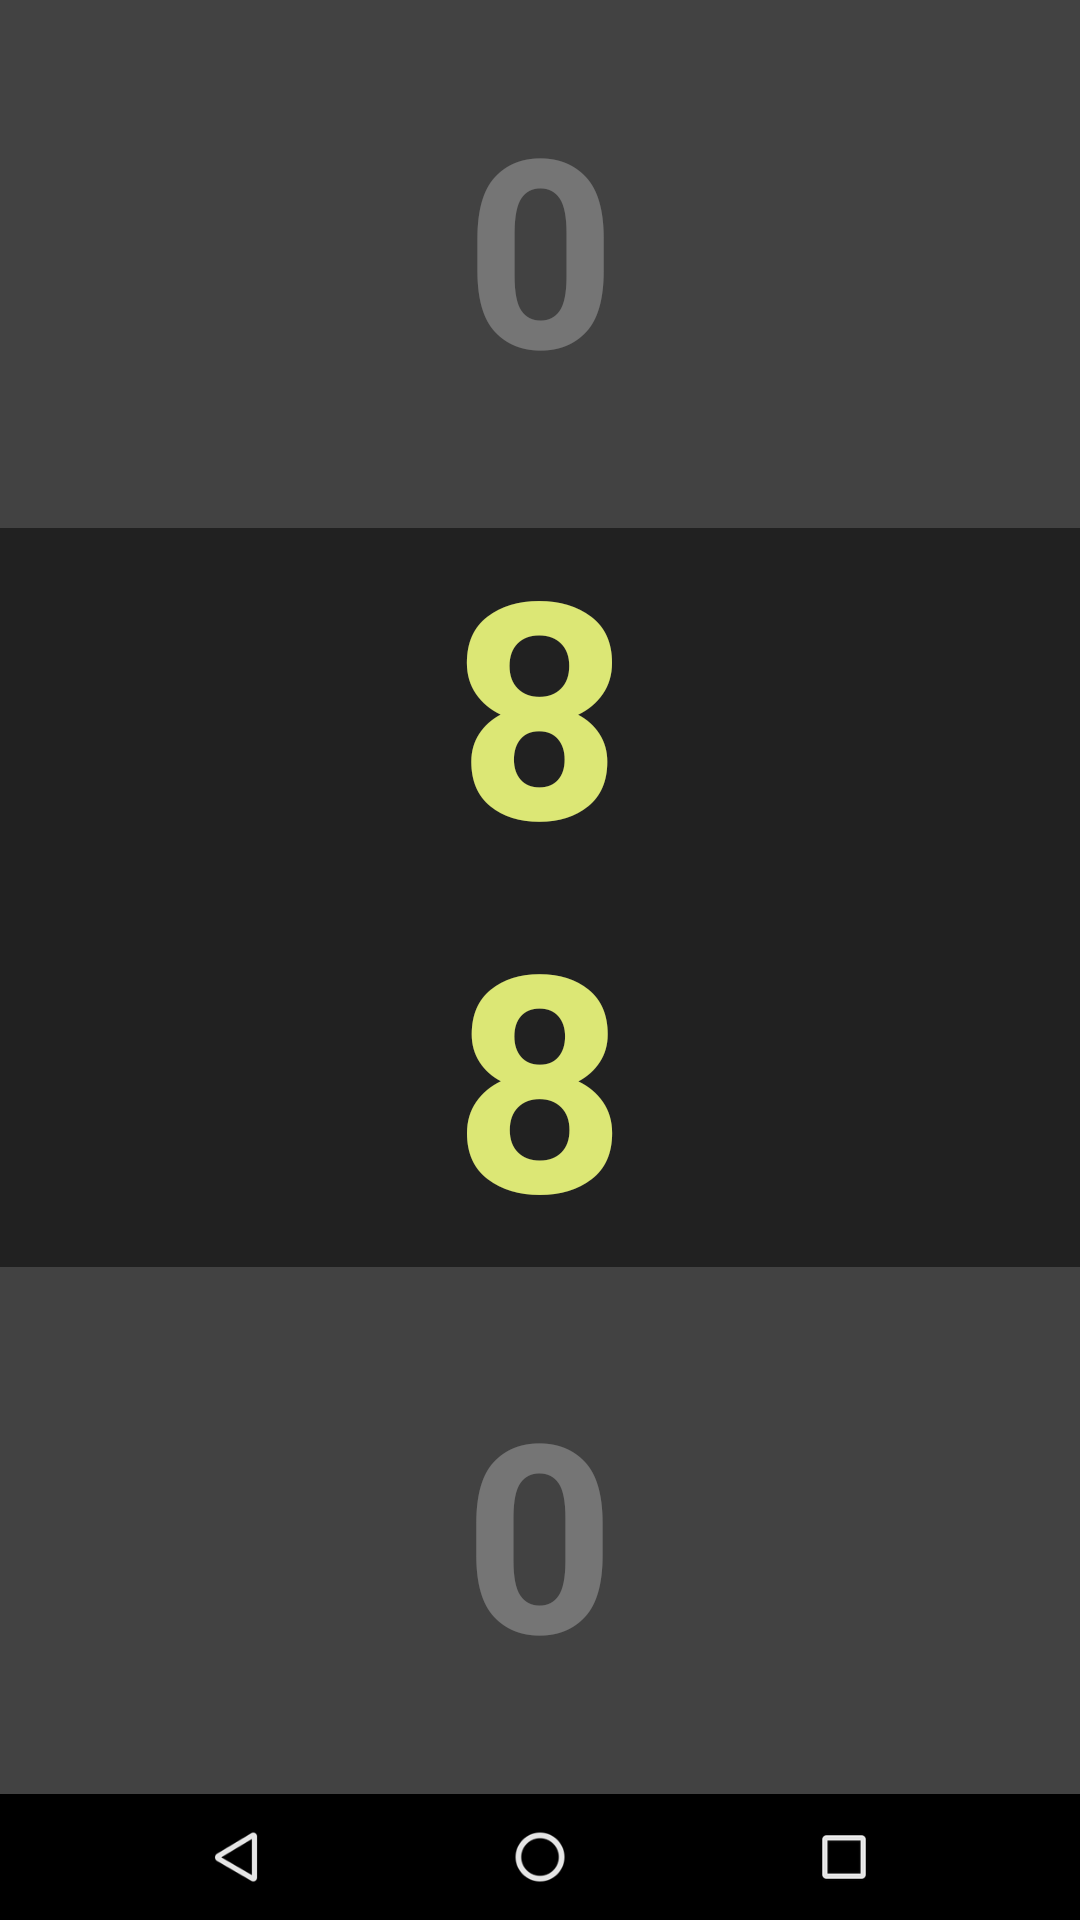
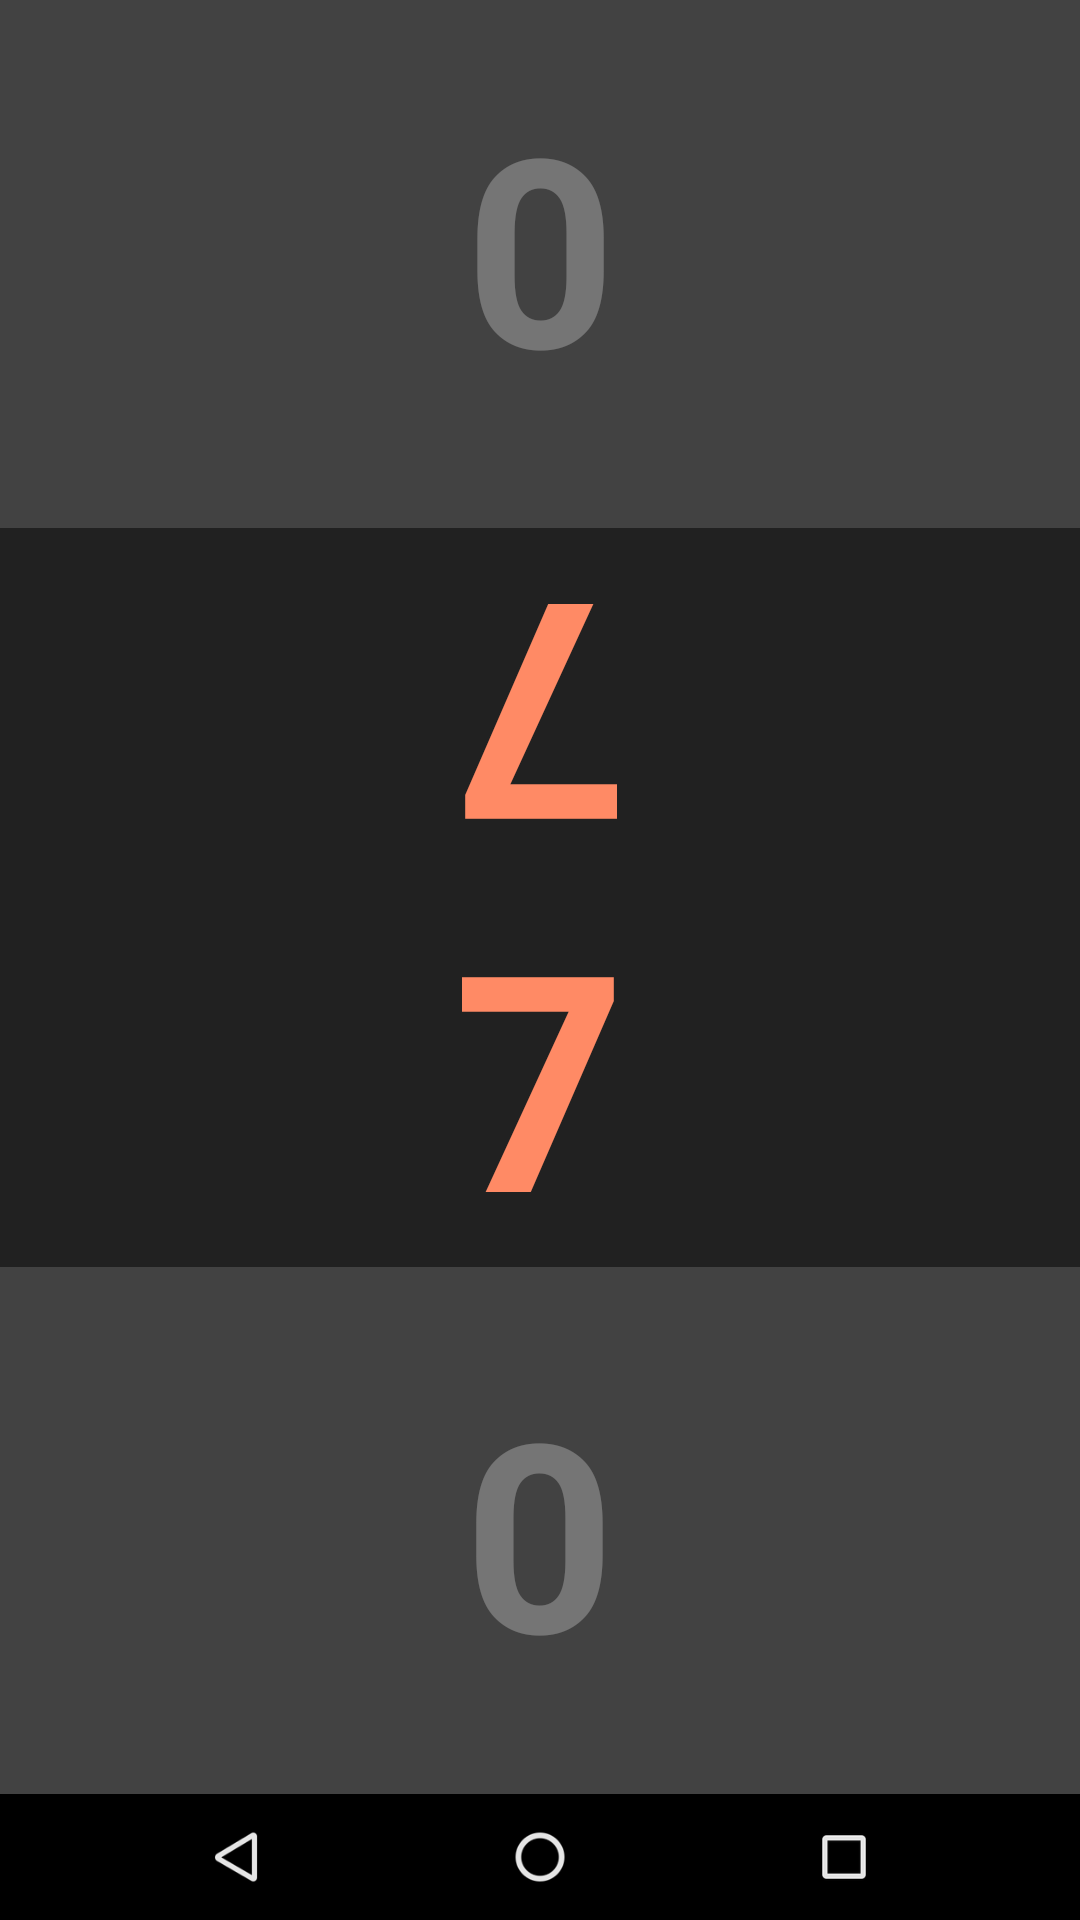
Collision level, screenshots!

Changed region(s): [[0.4278, 0.5, 0.5806, 0.625], [0.4278, 0.3125, 0.5806, 0.4375]]

diff --git a/app/src/main/java/sneakycoders/visualreact/level/levels/LevelCollision.java b/app/src/main/java/sneakycoders/visualreact/level/levels/LevelCollision.java
@@ -85,15 +85,15 @@ public class LevelCollision extends Level {
         // Two circles
         if ((leftShapeCircle != null) && (rightShapeCircle != null)) {
             // Calculate centers and radius
-            double centerLeftX = leftShapeCircle.left + (leftShapeCircle.right / 2);
-            double centerLeftY = leftShapeCircle.top + (leftShapeCircle.bottom / 2);
-            double centerRightX = rightShapeCircle.left + (rightShapeCircle.right / 2);
-            double centerRightY = rightShapeCircle.top + (rightShapeCircle.bottom / 2);
+            double centerLeftX = leftShapeCircle.left + (leftShapeCircle.width() / 2.0);
+            double centerLeftY = leftShapeCircle.top + (leftShapeCircle.height() / 2.0);
+            double centerRightX = rightShapeCircle.left + (rightShapeCircle.width() / 2.0);
+            double centerRightY = rightShapeCircle.top + (rightShapeCircle.height() / 2.0);
             double distCentersX = centerLeftX - centerRightX;
             double distCentersY = centerLeftY - centerRightY;
             double distCentersSq = distCentersX * distCentersX + distCentersY * distCentersY;
-            double radiusLeft = (leftShapeCircle.right - leftShapeCircle.left) / 2;
-            double radiusRight = (rightShapeCircle.right - rightShapeCircle.left) / 2;
+            double radiusLeft = leftShapeCircle.width() / 2.0;
+            double radiusRight = rightShapeCircle.width() / 2.0;
 
             // Collide if sum of radius is less than the distance between centers
             double sumRadius = radiusLeft + radiusRight;
@@ -101,24 +101,25 @@ public class LevelCollision extends Level {
         }
         // Two rectangles
         else if ((leftShapeRect != null) && (rightShapeRect != null)) {
-            return leftShapeRect.intersect(rightShapeRect);
+            return Rect.intersects(leftShapeRect, rightShapeRect);
         }
         // Circle and rectangle
         else {
             // Calculate center and radius
             RectF circle = (leftShapeCircle == null) ? rightShapeCircle : leftShapeCircle;
-            double centerX = circle.left + (circle.right / 2);
-            double centerY = circle.top + (circle.bottom / 2);
-            double radius = (circle.right - circle.left) / 2;
+            double centerX = circle.left + (circle.width() / 2.0);
+            double centerY = circle.top + (circle.height() / 2.0);
+            double radius = circle.width() / 2.0;
 
-            // Find the closest point to the circle within the rectangle
+            // Select rectangle
             Rect rect = (leftShapeRect == null) ? rightShapeRect : leftShapeRect;
 
+            // Find the closest point to the circle within the rectangle
             // Limit closestX to be in [rect.left, rect.right]
             double closestX = ((centerX >= rect.left) && (centerX <= rect.right)) ? centerX : (centerX < rect.left ? rect.left : rect.right);
 
             // Limit closestY to be in [rect.top, rect.bottom]
-            double closestY = ((centerY >= rect.top) && (centerY <= rect.bottom)) ? centerX : (centerY < rect.top ? rect.top : rect.bottom);
+            double closestY = ((centerY >= rect.top) && (centerY <= rect.bottom)) ? centerY : (centerY < rect.top ? rect.top : rect.bottom);
 
             // Calculate the distance between the circle's center and this closest point
             double distX = centerX - closestX;
@@ -190,12 +191,25 @@ public class LevelCollision extends Level {
             rightDim = Math.min(sideX, sideY);
         }
 
-        // TODO: Adjust size of middle band (more range)
-        // TODO: Adjust timers (slower some times)
-        // TODO: Fix all collisions
-        // TODO: Fix collision circle+rectangle
-        // TODO: Fix drawing of two rectangles after tap
-        // TODO: Small variations of Y axis
+        // Small variations on Y axis, while ensuring collision
+        double minDimYLeft = (leftShapeRect == null) ? leftShapeCircle.height() : leftShapeRect.height();
+        double minDimYRight = (rightShapeRect == null) ? rightShapeCircle.height() : rightShapeRect.height();
+        double minDimY = Math.min(minDimYLeft, minDimYRight);
+        double maxDiffY = minDimY * (1.0 - getResources().getFraction(R.fraction.level_collision_min_shape_collision_height, 1, 1));
+        int variationY = (int) (randomInInterval(0, maxDiffY) / 2.0);
+
+        // Random Y axis direction
+        variationY = (randomInInterval(0.0, 1.0) < 0.5) ? variationY : -variationY;
+        if (leftShapeRect != null) {
+            leftShapeRect.offset(0, variationY);
+        } else {
+            leftShapeCircle.offset(0, variationY);
+        }
+        if (rightShapeRect != null) {
+            rightShapeRect.offset(0, -variationY);
+        } else {
+            rightShapeCircle.offset(0, -variationY);
+        }
 
         // Set the movement
         final int delay = 1000 / getResources().getInteger(R.integer.level_collision_frames_per_second);
@@ -240,7 +254,7 @@ public class LevelCollision extends Level {
 
         // Create middle block
         double blockWidth = width * randomDouble(R.fraction.level_collision_min_block_width, R.fraction.level_collision_max_block_width);
-        middleBlock = new Rect((int) ((width - blockWidth) / 2), 0, (int) ((width + blockWidth) / 2), height);
+        middleBlock = new Rect((int) ((width - blockWidth) / 2.0), 0, (int) ((width + blockWidth) / 2.0), height);
 
         // Force redraw
         rootView.invalidate();

diff --git a/app/src/main/java/sneakycoders/visualreact/level/levels/LevelLight.java b/app/src/main/java/sneakycoders/visualreact/level/levels/LevelLight.java
@@ -60,9 +60,9 @@ public class LevelLight extends Level {
         cellPaint = new Paint();
         cellPaint.setColor(getRandomColor());
         successPaint = new Paint();
-        successPaint.setColor(successColorLight);
+        successPaint.setColor(successColor);
         failPaint = new Paint();
-        failPaint.setColor(failColorLight);
+        failPaint.setColor(failColor);
 
         // Get parameters
         cellsX = getResources().getInteger(R.integer.level_light_cells_x);

diff --git a/app/src/main/java/sneakycoders/visualreact/match/Match.java b/app/src/main/java/sneakycoders/visualreact/match/Match.java
@@ -67,7 +67,7 @@ public class Match extends AppCompatActivity {
         startMatch(null);
     }
 
-    public void startMatch(@SuppressWarnings("UnusedParameters") View view) {
+    public void startMatch(@SuppressWarnings({"UnusedParameters"}) View view) {
         // Levels sequence
         remainingLevels = LevelsFactory.getLevelsSequence(this);
 

diff --git a/docs/screenshots/README.md b/docs/screenshots/README.md
@@ -12,7 +12,7 @@ Taken with Android Studio Emulator, on a Nexus 5X API 24
 
 ## Match
 
-<img src="match_level_description.png" width="215"> <img src="match_cancel.png" width="215"> <img src="match_standings.png" width="215">
+<img src="match_level_description.png" width="215"> <img src="match_cancel.png" width="215"> <img src="match_standings.png" width="215"> <img src="match_standings_draw.png" width="215">
 
 ### Levels
 
@@ -30,7 +30,7 @@ Taken with Android Studio Emulator, on a Nexus 5X API 24
 
 #### Collision
 
-TODO
+<img src="level_collision_description.png" width="215"> <img src="level_collision_playing.png" width="215"> <img src="level_collision_fail.png" width="215"> <img src="level_collision_success.png" width="215">
 
 #### TicTacToe
 
